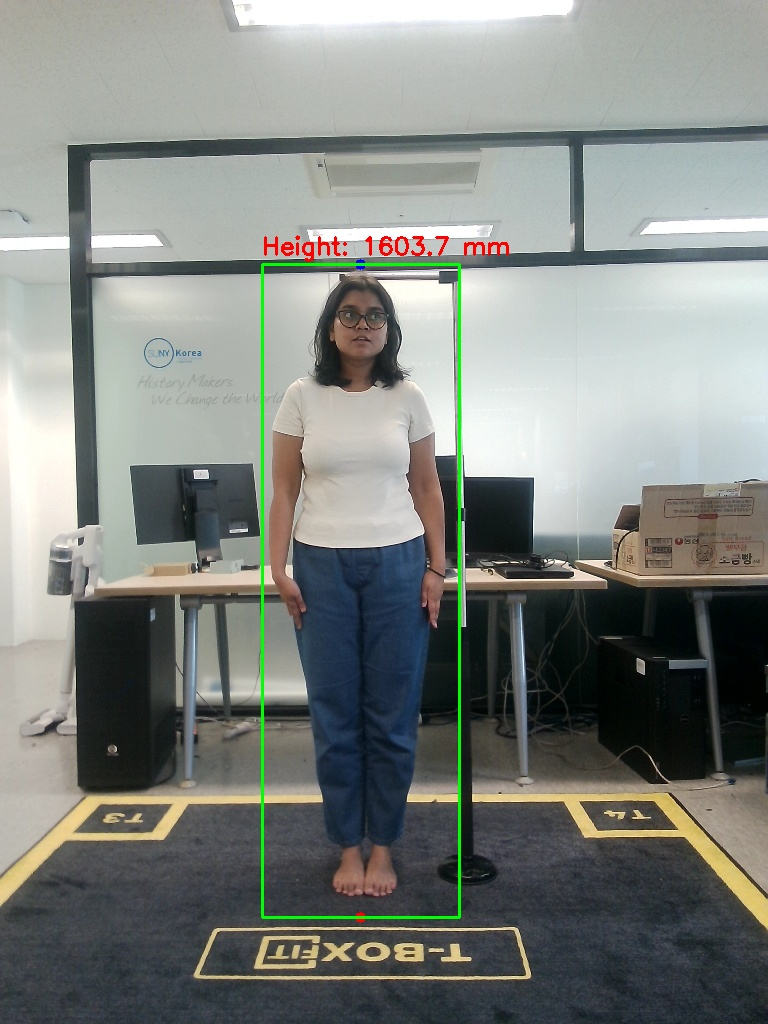
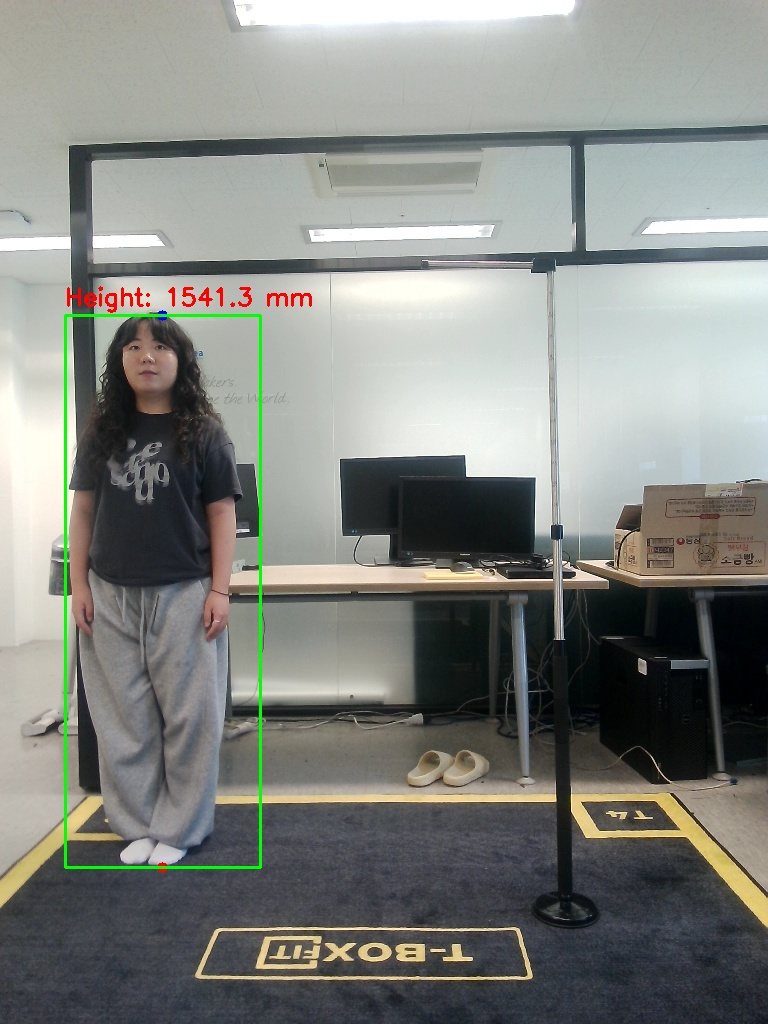
manualHeight

diff --git a/HightMeasurement/manualdotHeight.py b/HightMeasurement/manualdotHeight.py
@@ -1,6 +1,5 @@
 import cv2
 import numpy as np
-import mediapipe as mp
 
 # === Load intrinsic parameters ===
 intrin = np.load("/Users/sojeongshin/Documents/GitHub/PoseEstimation/HightMeasurement/cameraCali/intrinsic_calibration_result.npz")
@@ -15,35 +14,33 @@ t = extrinsic_matrix[:, 3].reshape(3, 1)
 
 # === Inverse rotation and camera position ===
 R_inv = np.linalg.inv(R)
-C_world = -R_inv @ t  # shape: (3, 1)
+C_world = -R_inv @ t
 
-# === Load image and (optional) undistort ===
-img = cv2.imread("/Users/sojeongshin/Documents/GitHub/PoseEstimation/HightMeasurement/ref/sj/L.jpg")
-h, w = img.shape[:2]
-# Uncomment if lens distortion is strong:
+# === Load image
+img = cv2.imread("/Users/sojeongshin/Documents/GitHub/PoseEstimation/HightMeasurement/ref/sj/O.jpg")
+clone = img.copy()
+clicks = []
 
-# === Mediapipe Selfie Segmentation ===
-mp_selfie_segmentation = mp.solutions.selfie_segmentation
-segmentor = mp_selfie_segmentation.SelfieSegmentation(model_selection=1)
-results = segmentor.process(cv2.cvtColor(img, cv2.COLOR_BGR2RGB))
+# === Mouse callback
+def mouse_callback(event, x, y, flags, param):
+    if event == cv2.EVENT_LBUTTONDOWN and len(clicks) < 2:
+        clicks.append((x, y))
+        cv2.circle(clone, (x, y), 5, (0, 0, 255), -1)
+        cv2.imshow("Click Head and Feet", clone)
 
-# === Threshold segmentation mask ===
-CONFIDENCE_THRESHOLD = 0.5
-mask = (results.segmentation_mask > CONFIDENCE_THRESHOLD).astype(np.uint8) * 255
+cv2.imshow("Click Head and Feet", clone)
+cv2.setMouseCallback("Click Head and Feet", mouse_callback)
 
-ys, xs = np.where(mask > 0)
-if len(ys) == 0:
-    print("No segmentation detected.")
-    exit()
+# Wait for two clicks
+while True:
+    cv2.imshow("Click Head and Feet", clone)
+    if len(clicks) == 2:
+        cv2.destroyAllWindows()
+        break
+    if cv2.waitKey(1) & 0xFF == 27:
+        break
 
-# === Bounding box of mask
-x_min, x_max = xs.min(), xs.max()
-y_min, y_max = ys.min(), ys.max()
-
-# Use center of bounding box as reference column
-u_center = int((x_min + x_max) / 2)
-u_head, v_head = u_center, y_min
-u_feet, v_feet = u_center, y_max
+(u_head, v_head), (u_feet, v_feet) = sorted(clicks, key=lambda pt: pt[1])  # 머리가 위쪽
 
 def ray_direction(u, v):
     uv1 = np.array([[u], [v], [1]])
@@ -59,18 +56,12 @@ feet_world = (C_world + s_feet * d_feet).ravel()
 d_head = ray_direction(u_head, v_head)
 head_world = (C_world + s_feet * d_head).ravel()
 
-# === Uncorrected height
+# === Height (z축 기준)
 height_mm = head_world[2] - feet_world[2]
 
-# === Apply z-direction correction factor
-dz_mean = (abs(d_head[2, 0]) + abs(d_feet[2, 0])) / 2
-height_mm_corrected = height_mm * dz_mean
+# === Print results
+print(f"Height: {height_mm:.1f} mm")
 
-print(f"Original Height: {height_mm:.1f} mm")
-print(f"Corrected Height: {height_mm_corrected:.1f} mm")
-
-
-# === Print info
 print("Camera position (C_world) in mm:")
 print("X: {:.2f} mm".format(C_world[0, 0]))
 print("Y: {:.2f} mm".format(C_world[1, 0]))
@@ -84,13 +75,13 @@ print("Z: {:.2f} mm".format(feet_world[2]))
 annotated_img = img.copy()
 cv2.circle(annotated_img, (u_head, v_head), 5, (255, 0, 0), -1)
 cv2.circle(annotated_img, (u_feet, v_feet), 5, (0, 0, 255), -1)
-cv2.rectangle(annotated_img, (x_min, y_min), (x_max, y_max), (0, 255, 0), 2)
+cv2.line(annotated_img, (u_head, v_head), (u_feet, v_feet), (0, 255, 0), 2)
 cv2.putText(annotated_img,
             f"Height: {height_mm:.1f} mm",
-            (x_min, max(y_min - 10, 30)),
+            (u_head, max(v_head - 10, 30)),
             cv2.FONT_HERSHEY_SIMPLEX, 0.8, (0, 0, 255), 2)
 
-cv2.imshow("3D Height Estimation", annotated_img)
-cv2.imwrite("height_estimation_segmented.jpg", annotated_img)
+cv2.imshow("Height Estimation", annotated_img)
+cv2.imwrite("height_estimation_manual.jpg", annotated_img)
 cv2.waitKey(0)
 cv2.destroyAllWindows()
